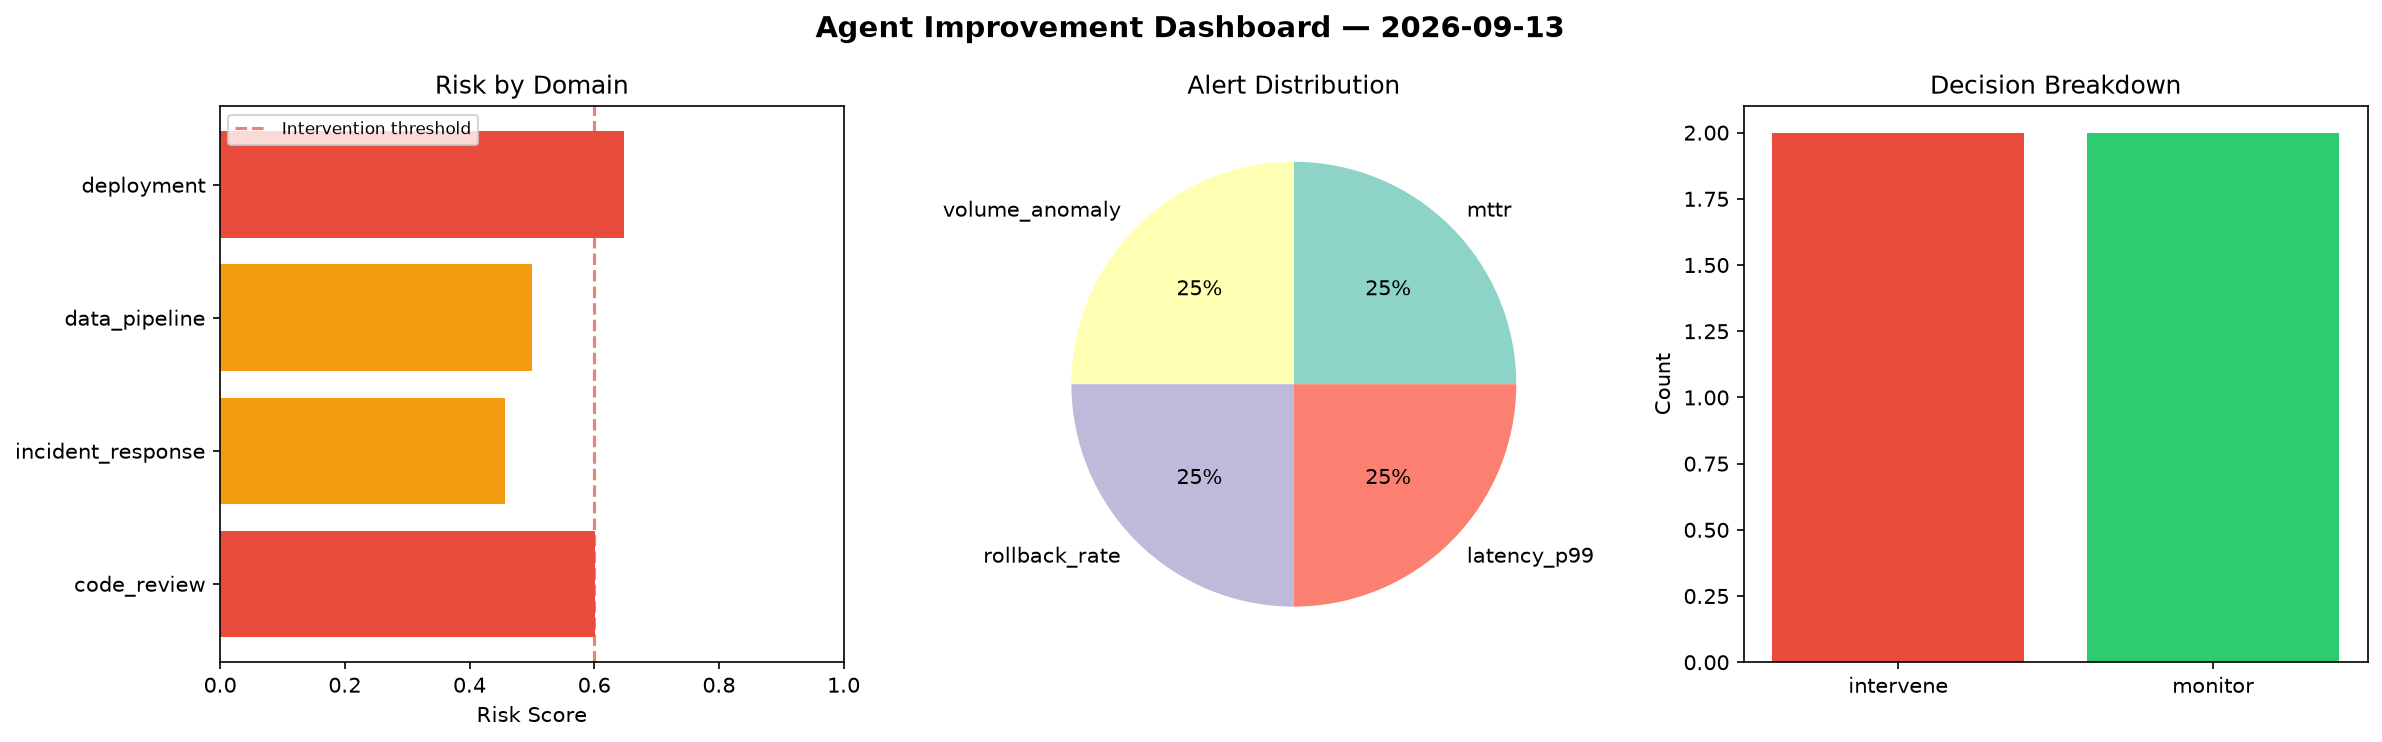
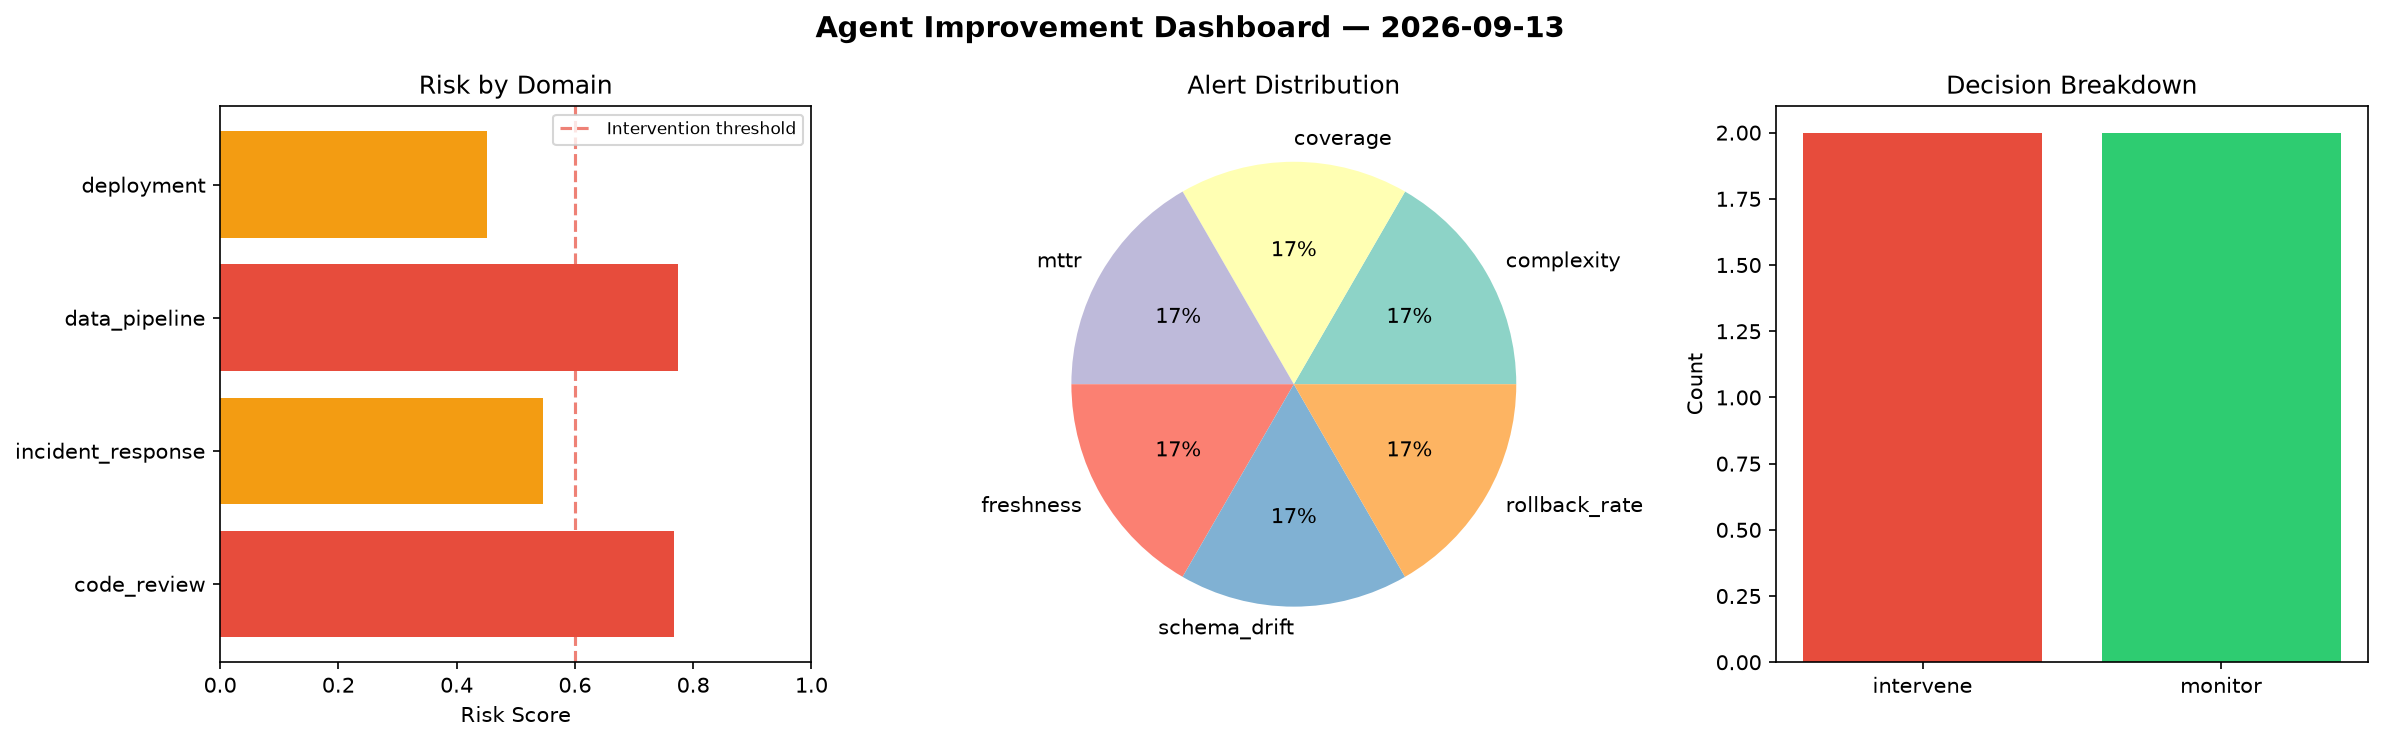
agent-improvement: daily cycle 2026-09-13T22:23

diff --git a/logs/2026-09-13.md b/logs/2026-09-13.md
@@ -1,6 +1,6 @@
 # Agent Improvement Report — 2026-09-13
 
-**Cycle ID:** `67cf801c` | **Avg Risk:** 0.5515 | **Interventions:** 2/4
+**Cycle ID:** `700cfea6` | **Avg Risk:** 0.6345 | **Interventions:** 2/4
 
 ![Dashboard](2026-09-13_dashboard.png)
 
@@ -10,18 +10,18 @@
 
 | Domain | Risk Score | Decision | Alerts |
 |--------|-----------|----------|--------|
-| code_review | 0.6013 | intervene | none |
-| incident_response | 0.4562 | monitor | mttr |
-| data_pipeline | 0.5009 | monitor | volume_anomaly |
-| deployment | 0.6476 | intervene | rollback_rate, latency_p99 |
+| code_review | 0.7668 | intervene | complexity, coverage |
+| incident_response | 0.5466 | monitor | mttr |
+| data_pipeline | 0.7741 | intervene | freshness, schema_drift |
+| deployment | 0.4505 | monitor | rollback_rate |
 
 ## Delta vs Yesterday
 
 | Domain | Today | Yesterday | Change |
 |--------|-------|-----------|--------|
-| code_review | 0.6013 | 0.3615 | 📈 66.3% |
-| incident_response | 0.4562 | 0.6626 | 📉 -31.2% |
-| data_pipeline | 0.5009 | 0.3552 | 📈 41.0% |
-| deployment | 0.6476 | 0.8755 | 📉 -26.0% |
+| code_review | 0.7668 | 0.3615 | 📈 112.1% |
+| incident_response | 0.5466 | 0.6626 | 📉 -17.5% |
+| data_pipeline | 0.7741 | 0.3552 | 📈 117.9% |
+| deployment | 0.4505 | 0.8755 | 📉 -48.5% |
 
-**Refinement:** `{'adjustment': 'tighten_thresholds', 'trend': 'degrading', 'window': 4}`
+**Refinement:** `{'adjustment': 'maintain', 'trend': 'improving', 'window': 4}`
